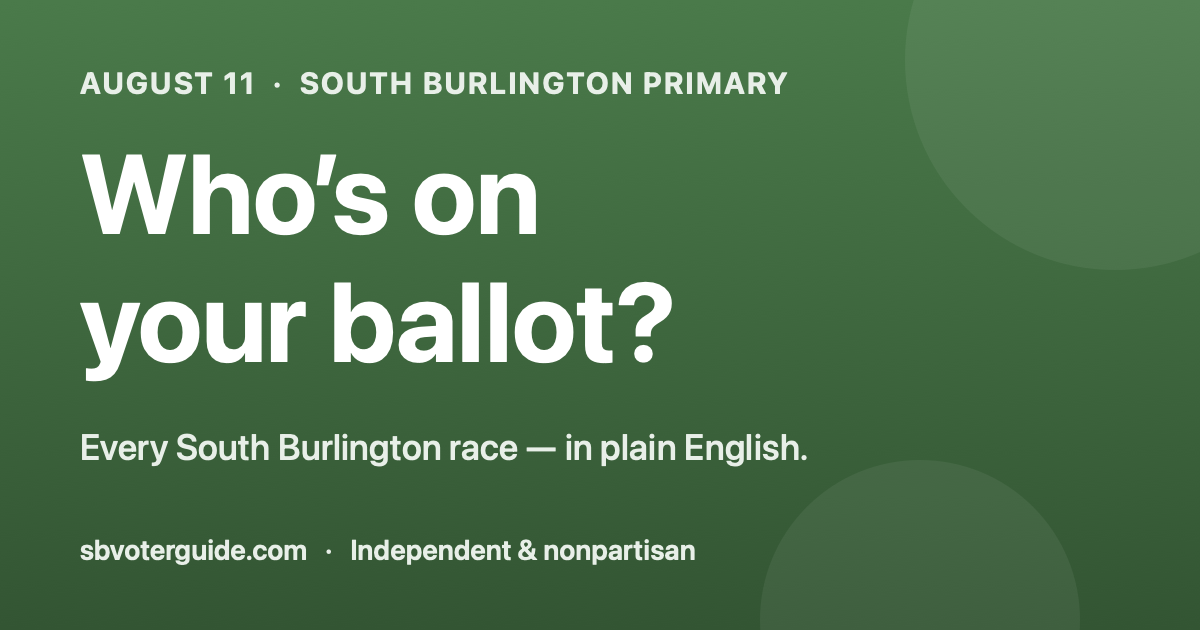
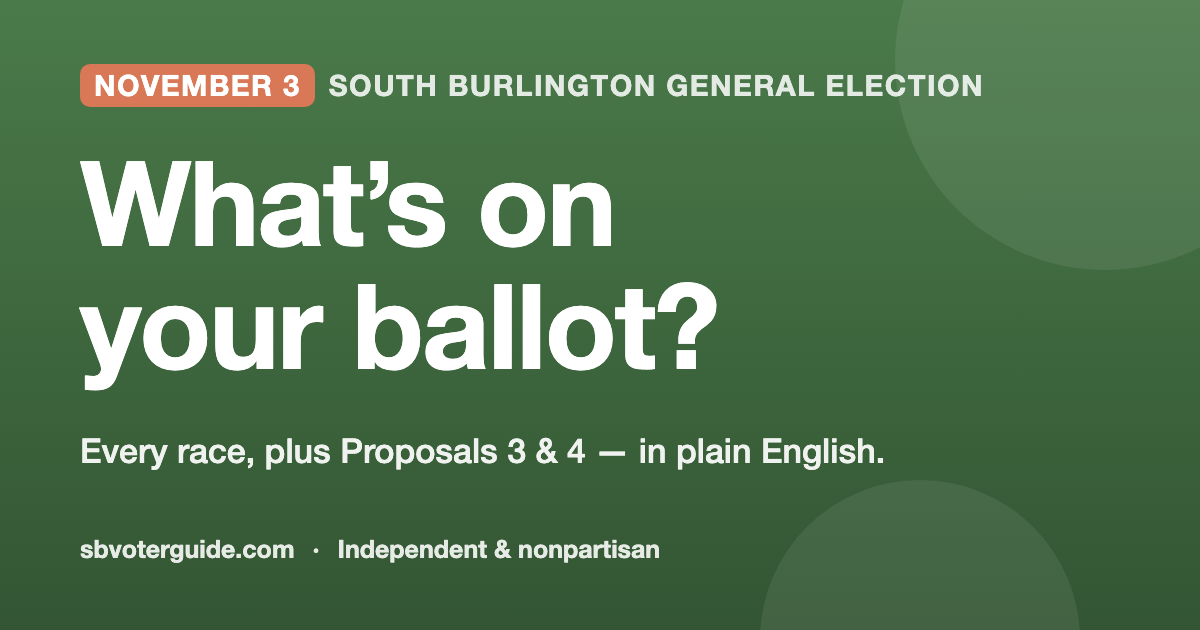
Share image: November 3 general election
Replace the August 11 primary og.png with a November 3 version in the
same style, and drop the TODO in layout.tsx.

diff --git a/app/layout.tsx b/app/layout.tsx
@@ -30,8 +30,6 @@ export const metadata: Metadata = {
     type: "website",
     locale: "en_US",
     siteName: "South Burlington Voter Guide",
-    // TODO(owner): public/og.png still reads "August 11 · South Burlington Primary".
-    // Swap in a November 3 image; alt text below already describes the general.
     images: [{ url: "/og.png", width: 1200, height: 630, alt: "South Burlington Voter Guide — what's on your November 3 ballot?" }],
   },
   twitter: {
